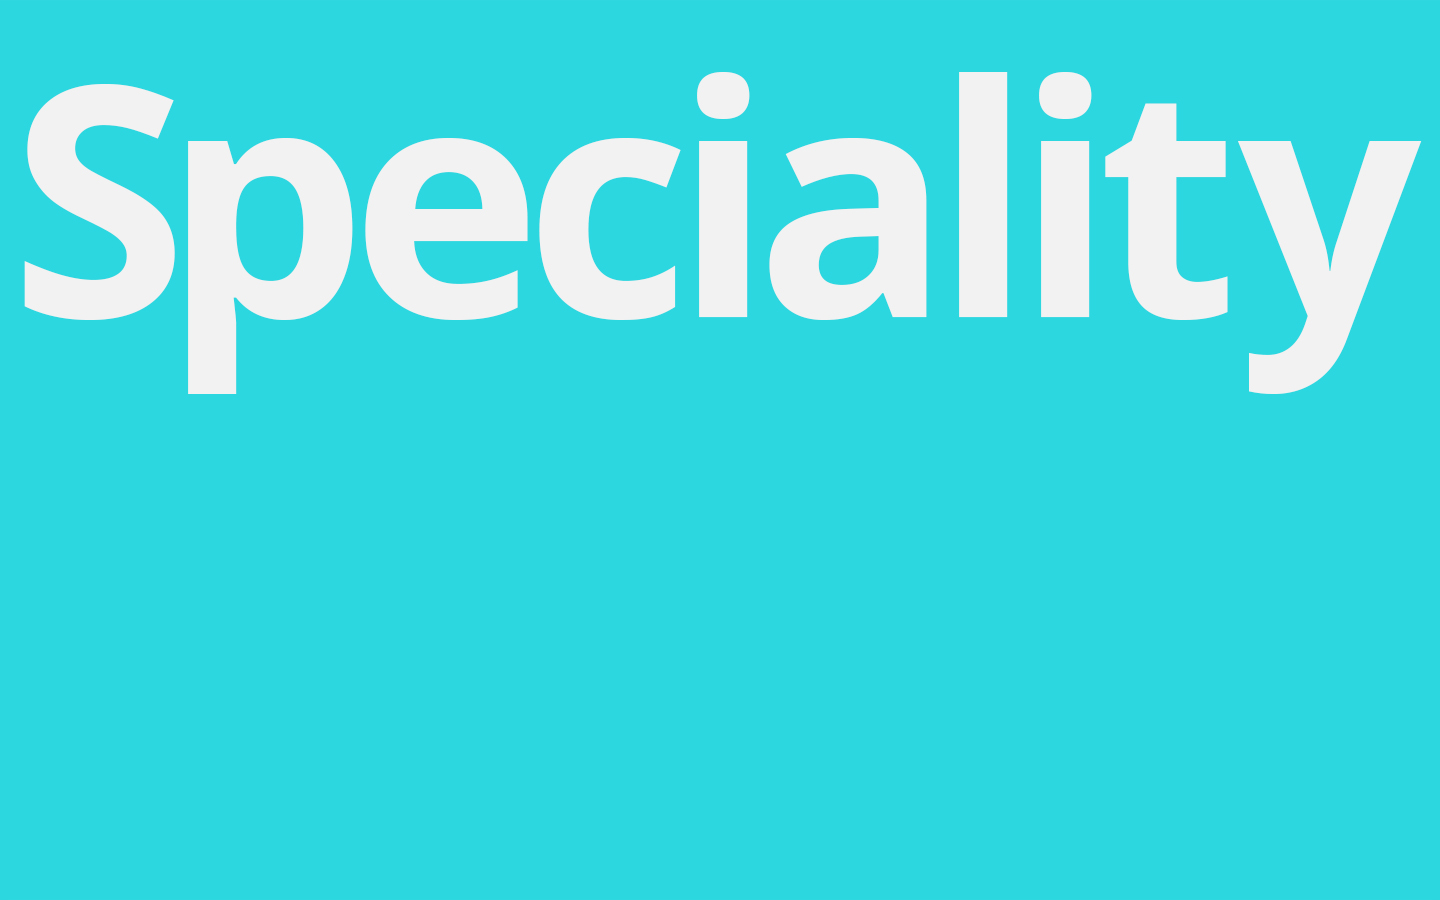
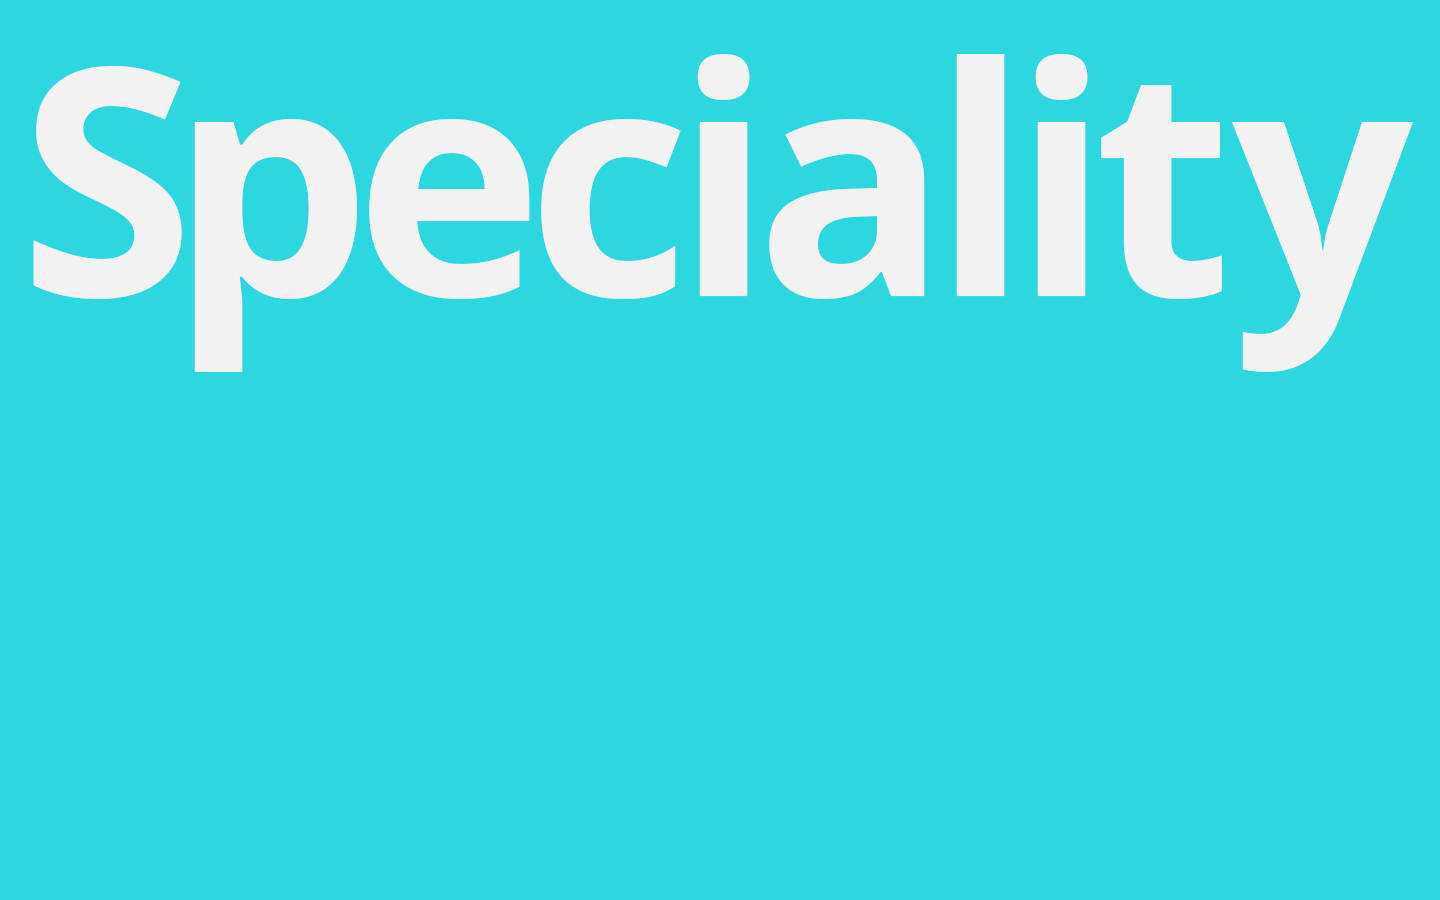
speciality

Changed region(s): [[0.0, 0.0622, 0.9375, 0.4356], [0.9062, 0.1244, 1.0, 0.3422]]

diff --git a/stylesheets/styles.css b/stylesheets/styles.css
@@ -48,27 +48,16 @@
 
 @media (min-width: 800px) {
     #speciality {
-        
-        display: box;
-        box-pack: center;
-        box-align: center;
-
-        display: -webkit-box;
-        -webkit-box-pack: center;
-        -webkit-box-align: center;
-
         text-align: center;
         position: relative;
-        height: 100%;
         
         text-align: center;
         background-color: #2cd7e0;  
-        position: relative;
         height: 100%;
         background-image: url(/images/bg_speciality.jpg);
         background-repeat: no-repeat;
         background-size: cover;
-        background-position: center;
+        background-position: 0 0 0 0;
     }
     
 }
@@ -97,17 +86,13 @@ html, body {
     height: 100%;
 }
 
-
-
-
-
 #speciality {
-    display: flex;
     background-color: #2cd7e0;
 }
 
 #speciality img{
-    flex: 1;
+    margin: 140px -15px;
+    height: auto;
 }
 
 
